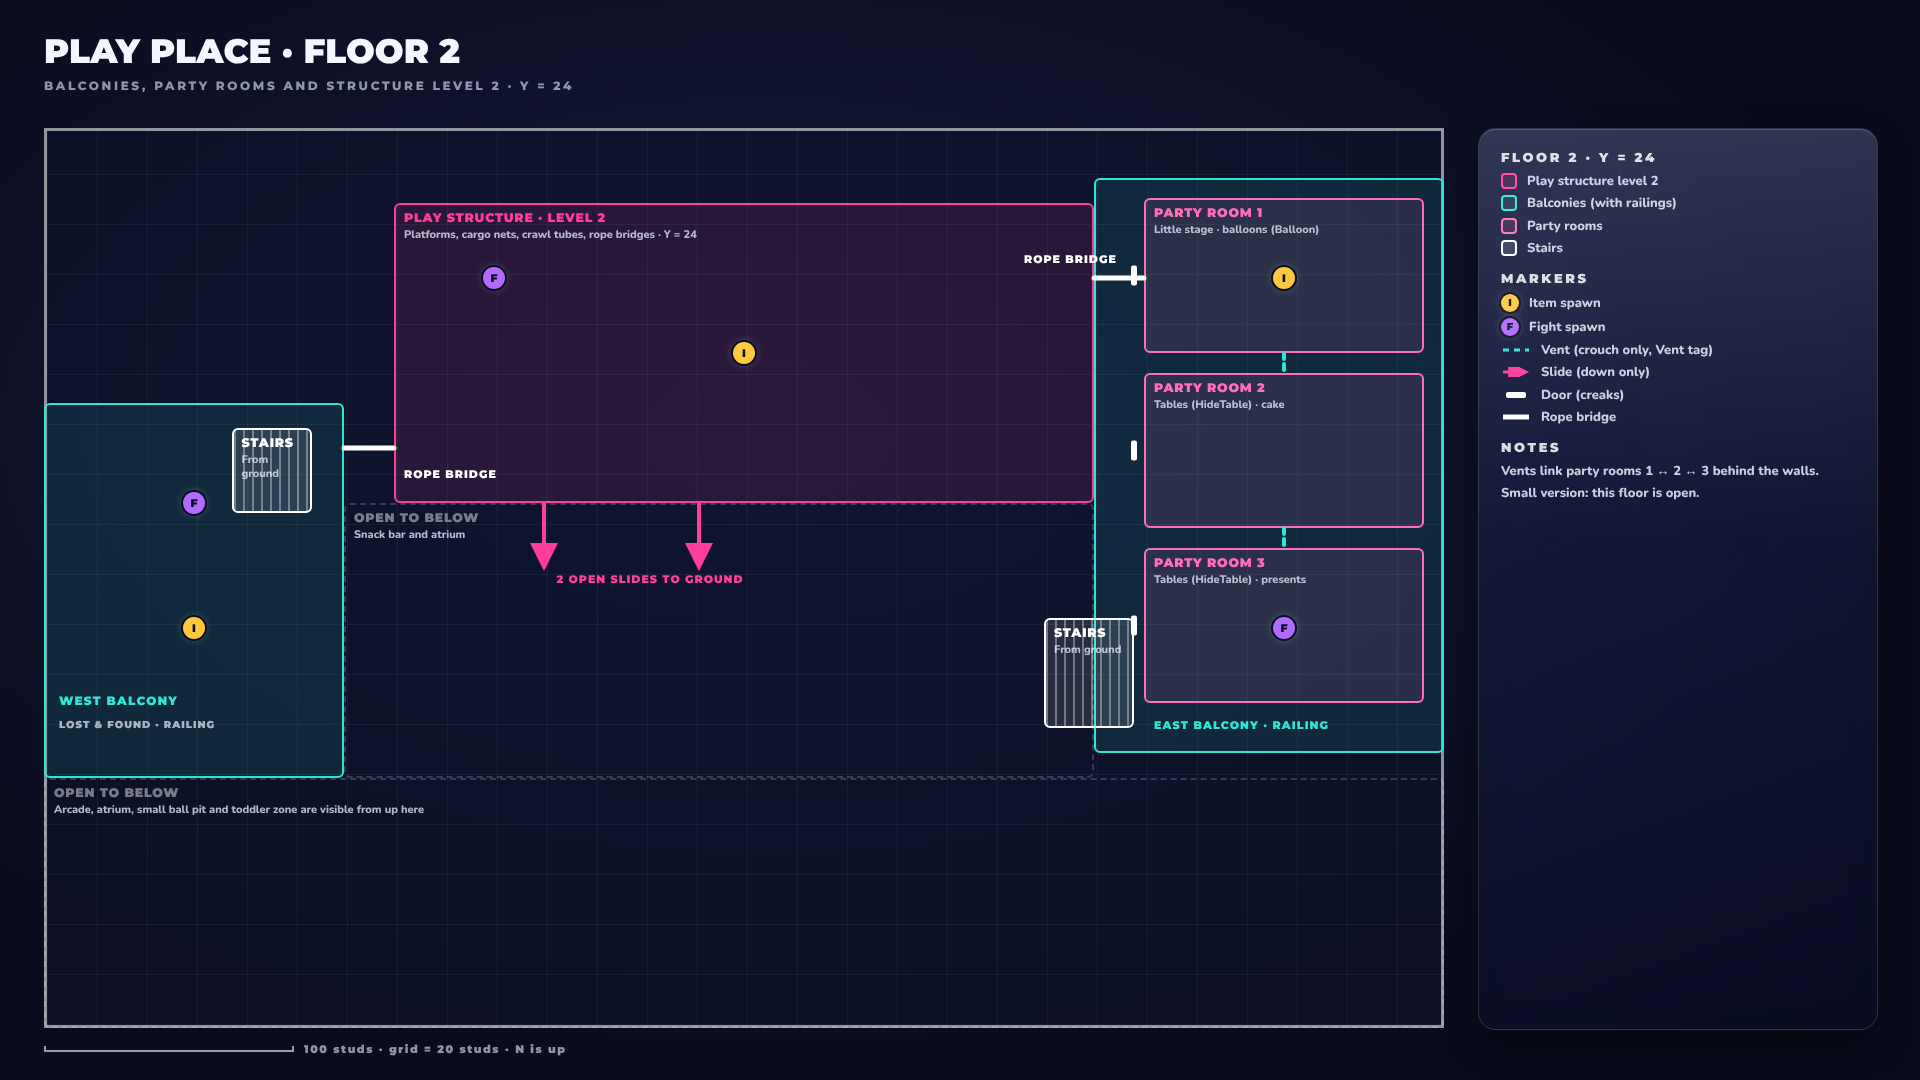
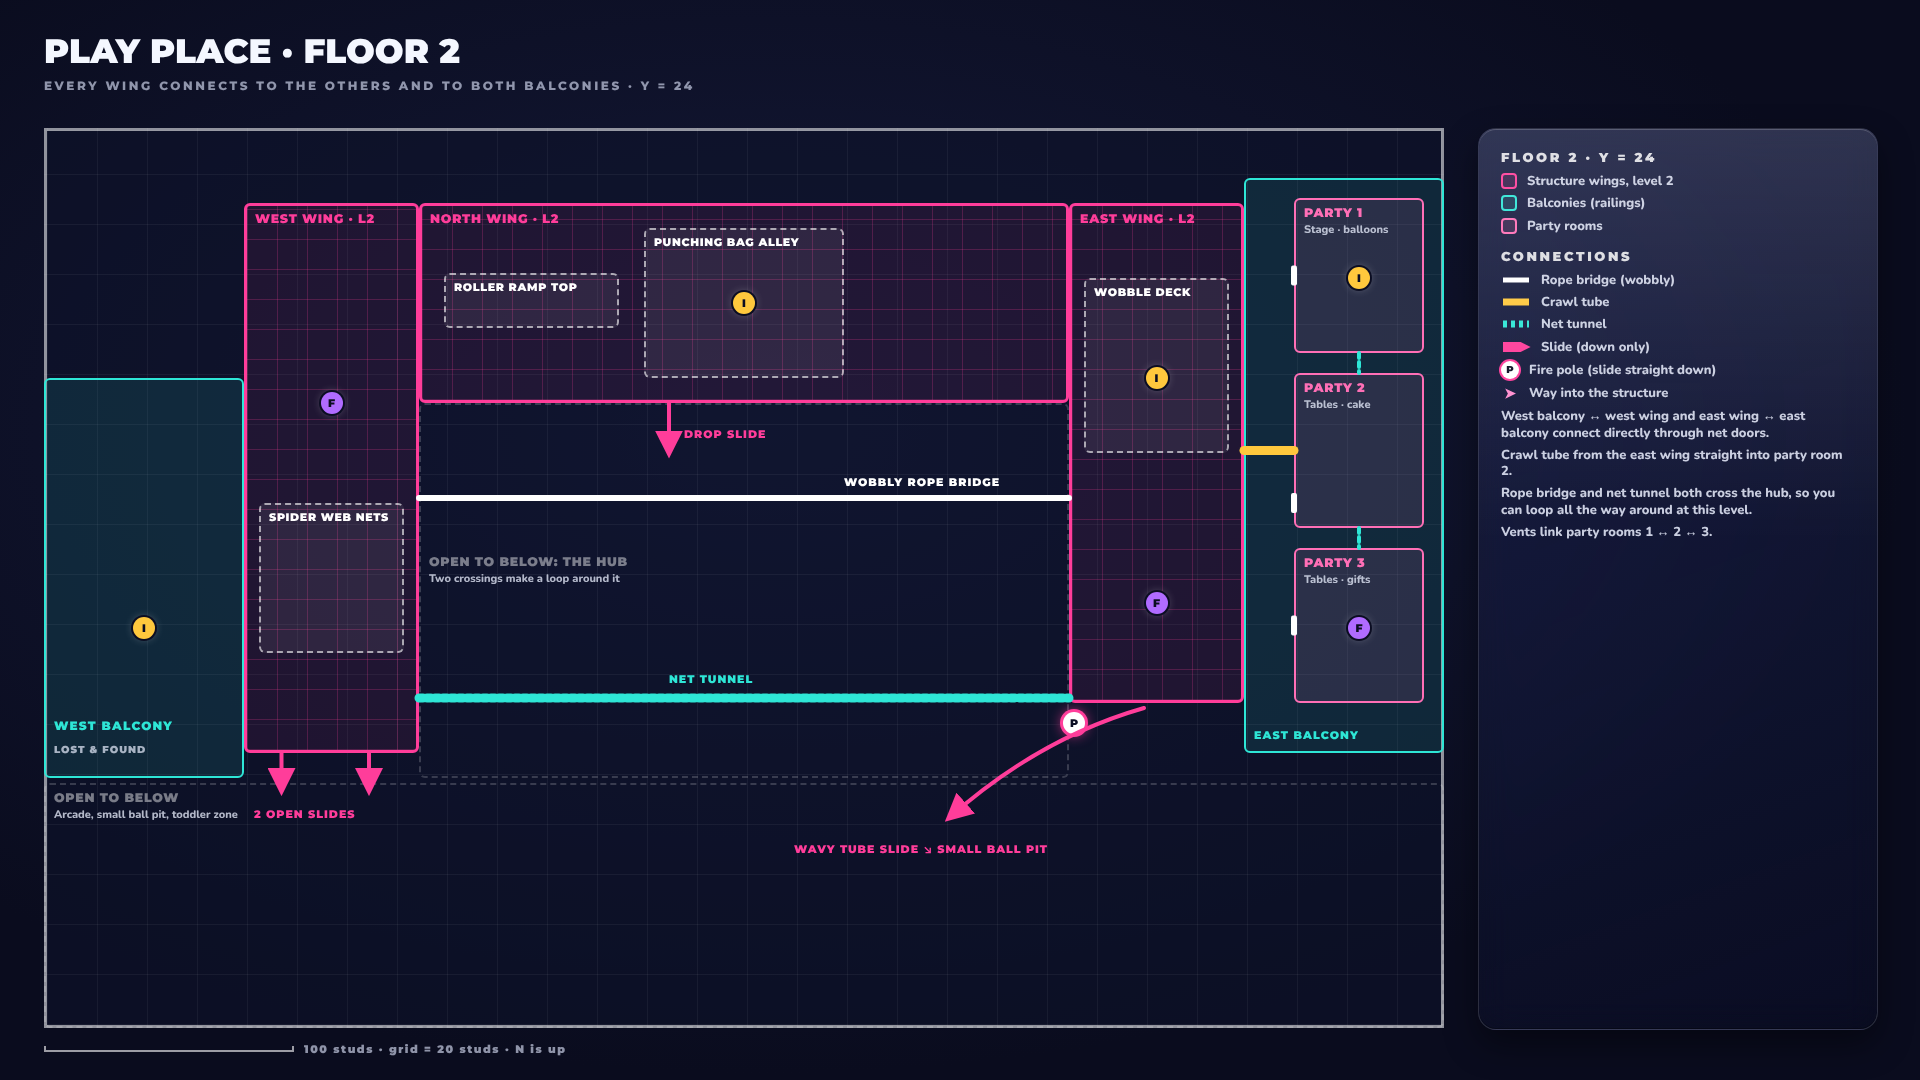
Redesign play place as a connected Goofy Gorillas style structure
Horseshoe of three netted-cube wings plus a west tower around the info
desk hub, linked by a rope bridge and net tunnel over the hub, crawl tubes
and net doors; six slides and two fire poles; named play areas inside the
structure. Floor plans and spec updated to match.

Claude-Session: https://claude.ai/code/session_015tY4PgXudsWvih9vAot5cc

diff --git a/docs/maps/play-place.md b/docs/maps/play-place.md
@@ -1,8 +1,11 @@
-# Map spec: Indoor play place
+# Map spec: Indoor play place (v2)
 
-Draft layout for the main map. The pictures show it; this file has the exact
-numbers so Claude Code can build a greybox version (simple blocks with the
-right tags) that the owner then decorates in Studio.
+Layout for the main map, modelled on how Goofy Gorillas' play place feels:
+one **huge, connected play structure** made of netted cubes, with several
+towers joined by bridges, net tunnels and crawl tubes, lots of slides, ball
+pits built into its base, and openings on every side. The pictures show it;
+this file has the exact numbers so Claude Code can build a greybox version
+(simple blocks with the right tags) that the owner then decorates in Studio.
 
 All numbers are **(suggested)** unless the design doc says otherwise. Change
 them freely, but keep this file and the pictures in sync.
@@ -19,92 +22,128 @@ them freely, but keep this file and the pictures in sync.
   (0, 0, 0)**.
 - **X** runs west to east (0 to 560). **Z** runs north to south (0 to 360).
   In the pictures, north is up.
-- **Y** is height: ground floor 0, floor 2 at 24, floor 3 at 48, ceiling at
-  76.
-- Zones below are written as `x1–x2, z1–z2`.
+- **Y** is height: ground 0, floor 2 at 24, floor 3 at 48, ceiling at 76.
+- Zones are written as `x1–x2, z1–z2`. Points as `(x, z)`.
 - The **office doors** are on the **south wall** (Z = 360) at X 20–60.
-- Big version: everything below. **Small version** (2 to 14 players): the
-  same building with **floor 3 closed off** (netting over the ladders up from
-  floor 2 and a "closed" sign).
+- **Small version** (2 to 14 players): the same building with **floor 3
+  closed off** (netting over the ways up from floor 2 and a "closed" sign).
+
+## The play structure
+
+A **horseshoe of three wings** wrapped around the **hub** (the open court
+with the info desk). Every wing is built from **12-stud netted cubes**
+stacked into levels, with padded poles at the corners, cargo nets on the
+hub-facing sides, ladders and ramps inside, and net doors on every side.
+
+| Wing | Area | Levels | Inside |
+|---|---|---|---|
+| West wing | x 80–150, z 30–160 at ground; x 80–150, z 30–250 at level 2 (level 2 extends over the snack bar) | 3 (level 3 is the west tower, below) | Ground: **net maze** (x 86–144, z 70–140). Level 2: **spider web nets** (x 86–144, z 150–210). |
+| North wing | x 150–410, z 30–110 | 3 (tallest) | Ground: **big ball pit** (x 298–398, z 38–104) and the **roller ramp** up to level 2 (x 160–230, z 58–80). Level 2: **punching bag alley** (x 240–320, z 40–100). Level 3: **tube maze and lookout windows** (x 170–390, z 30–100). |
+| East wing | x 410–480, z 30–230 | 2 | Ground: **crawl tube tunnels** (x 416–474, z 120–190). Level 2: **wobble deck** (x 416–474, z 60–130). |
+| West tower | x 80–150, z 30–100 at level 3 | top only | **Lookout**, reached from the west wing's level 2. |
+
+**Ways into the structure from the ground** (net doors): (150, 60),
+(150, 135), (80, 120), (190, 110), (270, 110), (410, 140), (410, 70),
+(445, 230), (480, 100).
+
+### Slides and poles (all one way, down)
+
+| # | Slide | From | To |
+|---|---|---|---|
+| 1 | **Giant spiral tube slide** | North wing level 3, entrance x 350–380, z 42–72 | Big ball pit (ground) |
+| 2 | **Wavy tube slide** | East wing level 2 at (440, 232) | Small ball pit (ground), landing at (362, 276) |
+| 3–4 | **Two open slides** | West wing level 2, south edge at (95, 250) and (130, 250) | Ground at (95, 263) and (130, 263), between the snack bar and the arcade |
+| 5 | **Drop slide** (steep) | North wing level 2, south edge at (250, 110) | The hub at (250, 130) |
+| 6 | **Tiny corkscrew slide** | A low platform inside the toddler zone | Toddler zone floor |
+
+| Fire pole | From | To |
+|---|---|---|
+| North pole | North wing level 3 at (210, 92) | The hub at (210, 114), straight through level 2 |
+| East pole | East wing level 2 at (412, 238) | Ground at (412, 238) |
+
+### Crossings and links
+
+| Level | Link | Between |
+|---|---|---|
+| 2 | **Wobbly rope bridge** over the hub | West wing (150, 148) ↔ east wing (410, 148) |
+| 2 | **Net tunnel** over the hub | West wing (150, 228) ↔ east wing (410, 228) |
+| 2 | **Crawl tube** | East wing (480, 129) → straight into party room 2 (500, 129) |
+| 2 | Net doors | West balcony ↔ west wing along x = 80; east wing ↔ east balcony along x = 480 |
+| 3 | **Crawl tube** | West tower (150, 60) ↔ north wing level 3 (170, 60) |
+
+With both hub crossings you can **loop all the way around the hub at level
+2**, and every wing connects to the others and to both balconies.
 
 ## Ground floor (Y = 0)
 
 | Zone | Area | Notes | Tags |
 |---|---|---|---|
-| Maintenance hallway | x 5–555, z 5–23 | Staff only, narrow, pipes and fuse boxes. Door to the storage room at (500, 23). | `Door` |
-| Kitchen | x 5–55, z 140–250 | Staff only, behind the snack bar. Door to the snack bar on its east wall at (55, 200). Vent to the maintenance hallway (below). | `Door`, `Vent` |
-| Snack bar counter | x 58–66, z 165–250 | Counter you can hide behind. | |
-| Snack bar seating | x 70–220, z 165–250 | About 8 tables with tablecloths, chairs flipped up on top. | `HideTable` |
-| Play structure, level 1 | x 140–420, z 30–150 | Ground level of the climbing structure: cargo nets up, crawl tubes. | `Climbable`, `CrawlTube` |
-| Big ball pit | x 302–406, z 46–134 | Inside the structure's ground level, floor sunk 4 studs. The giant spiral slide lands here. | `BallPit`, `BallPitBalls` |
-| Storage room | x 440–555, z 30–120 | Staff only: boxes, spare balls, mop buckets. Door to the hall at (490, 120). | `Door` |
-| Entrance hall | x 20–60, z 270–358 | From the office doors: cubbies, shoe racks, sign-in desk. Opens into the hall at (40, 270). | `EntranceSpawn` |
-| Arcade | x 70–235, z 270–350 | Rows of arcade machines. | `ArcadeMachine` |
-| Prize counter | x 238–272, z 270–350 | Glass cases of plushies and toys. | |
-| Small ball pit | x 290–380, z 285–345 | Near the entrance. | `BallPit`, `BallPitBalls` |
-| Toddler zone | x 410–555, z 250–350 | Soft play with low padded walls (3 studs) and about 20 foam blocks. | `FoamBlock` |
-| West stairs | x 75–107, z 120–154 | Up to the west balcony. | |
-| East stairs | x 400–436, z 196–240 | Up to the east balcony. | |
-| Atrium | the open middle | Open floor around the info desk. | |
-| Info desk | circle, center (280, 205), radius 12 | Round staff desk in the middle. Seekers wait here blind. | `SeekerStart` |
+| Maintenance hallway | x 5–555, z 5–23 | Staff only, runs behind everything. Door to storage at (500, 23). | `Door` |
+| Kitchen | x 5–55, z 140–250 | Staff only. Door to the snack bar at (55, 205). | `Door` |
+| West stairs | x 15–55, z 100–134 | Up to the west balcony. | |
+| Snack bar counter | x 58–66, z 165–250 | Hide behind it. | |
+| Snack bar seating | x 68–150, z 165–250 | Tables with tablecloths, chairs flipped up, **under the west wing's level 2**. | `HideTable` |
+| The hub | x 150–410, z 110–260 | Open court in the middle; the rope bridge and net tunnel pass overhead. | |
+| Info desk | circle, center (280, 180), radius 12 | Seekers wait here blind. | `SeekerStart` |
+| Storage | x 490–555, z 30–120 | Staff only. Door to the floor at (520, 120). | `Door` |
+| East stairs | x 495–535, z 190–235 | Up to the east balcony. | |
+| Entrance hall | x 20–60, z 270–358 | Cubbies, shoe racks, sign-in desk. | `EntranceSpawn` |
+| Arcade | x 70–235, z 270–350 | Rows of machines. | `ArcadeMachine` |
+| Prize counter | x 238–272, z 270–350 | Glass cases of plushies. | |
+| Small ball pit | x 290–390, z 275–345 | The wavy tube slide lands here. | `BallPit`, `BallPitBalls` |
+| Toddler zone | x 410–555, z 260–350 | Soft play, about 20 foam blocks, tiny corkscrew slide. | `FoamBlock` |
+
+The big ball pit (in the north wing) has its floor sunk 4 studs. Tags:
+`BallPit`, `BallPitBalls`.
+
+**Vents** (`Vent`, crouch only): kitchen (30, 140) ↔ maintenance hallway
+(30, 23); storage (540, 120) ↔ toddler zone (540, 260).
 
 **Spawn points**
 
 | Tag | Positions (x, z) |
 |---|---|
-| `EntranceSpawn` | Around (40, 340) in the entrance hall |
-| `SeekerSpawn` | (250, 172), (310, 172), (250, 246), (310, 246) |
-| `ItemSpawn` | (150, 210), (360, 240), (480, 140), (200, 300) |
-| `FightSpawn` | (110, 230), (460, 230), (340, 320), (220, 160) |
+| `EntranceSpawn` | Around (40, 340) |
+| `SeekerSpawn` | (240, 150), (320, 150), (240, 215), (320, 215) |
+| `ItemSpawn` | (110, 205), (285, 245), (455, 250), (200, 300), (520, 160) |
+| `FightSpawn` | (115, 50), (380, 150), (340, 320), (500, 300) |
 
-**Vents (crouch only, `Vent`)**
-- Kitchen north wall (30, 140) to the maintenance hallway (30, 23), inside
-  the west wall.
-- Storage room (500, 120) to the toddler zone (500, 250), inside the east
-  side.
-
-**Slides:** two open slides from the south edge of structure level 2 land on
-the ground at about (200, 165) and (262, 165).
-
-**Cleaning robot** (`RobotPath` points): (240, 160) → (330, 160) →
-(400, 260) → (380, 350) → (280, 270) → (200, 260) → back to start.
+**Cleaning robot** (`RobotPath`): loops around the hub and between both
+ball pits: (220, 250) → (400, 250) → (400, 270) → (290, 270) → (220, 250).
 
 ## Floor 2 (Y = 24)
 
 | Zone | Area | Notes | Tags |
 |---|---|---|---|
-| Play structure, level 2 | x 140–420, z 30–150 | Platforms, cargo nets, crawl tubes. | `Climbable`, `CrawlTube` |
-| West balcony | x 0–120, z 110–260 | Overlooks the snack bar. Lost and found. Railing on the open sides. | |
-| East balcony | x 420–560, z 20–250 | Walkway at x 420–440 in front of the party rooms. Railing on the open sides. | |
-| Party room 1 | x 440–552, z 28–90 | Little stage, balloons. Door at (440, 59). | `Door`, `Balloon` |
-| Party room 2 | x 440–552, z 98–160 | Tables with tablecloths, cake. Door at (440, 129). | `Door`, `HideTable` |
-| Party room 3 | x 440–552, z 168–230 | Tables with tablecloths, presents. Door at (440, 199). | `Door`, `HideTable` |
-| Open to below | everything else | The atrium, snack bar, arcade, small ball pit and toddler zone are open up to the ceiling. | |
+| West balcony | x 0–80, z 100–260 | Over the kitchen. Lost and found. Railing on the open sides. | |
+| West wing, level 2 | x 80–150, z 30–250 | Spider web nets. Two open slides from its south edge. | `Climbable` |
+| North wing, level 2 | x 150–410, z 30–110 | Punching bag alley, roller ramp top, drop slide. | `Climbable` |
+| East wing, level 2 | x 410–480, z 30–230 | Wobble deck, wavy tube slide, east pole. | `Climbable` |
+| East balcony | x 480–560, z 20–250 | Walkway at x 480–500 in front of the party rooms. | |
+| Party room 1 | x 500–552, z 28–90 | Stage, balloons. Door at (500, 59). | `Door`, `Balloon` |
+| Party room 2 | x 500–552, z 98–160 | Tables, cake. Door at (500, 150); the crawl tube from the east wing enters at (500, 129). | `Door`, `HideTable` |
+| Party room 3 | x 500–552, z 168–230 | Tables, gifts. Door at (500, 199). | `Door`, `HideTable` |
 
-- **Rope bridges:** west balcony to the structure at z 128 (x 120–140);
-  structure to party room 1's door at z 60 (x 420–440).
-- **Vents:** party room 1 ↔ 2 at (496, 90–98), and party room 2 ↔ 3 at
-  (496, 160–168).
-- **Slides:** the two open slides start here at (200, 150) and (262, 150).
-- `ItemSpawn`: (60, 200), (496, 60), (280, 90). `FightSpawn`: (496, 200),
-  (180, 60), (60, 150).
+- **Vents:** party rooms 1 ↔ 2 at (526, 90–98) and 2 ↔ 3 at (526, 160–168).
+- `ItemSpawn`: (40, 200), (280, 70), (445, 100), (526, 60).
+- `FightSpawn`: (115, 110), (445, 190), (526, 200).
 
 ## Floor 3 (Y = 48), big version only
 
 | Zone | Area | Notes | Tags |
 |---|---|---|---|
-| Play structure, level 3 | x 180–380, z 40–140 | The top: tube maze, net walkway, lookout windows. Reached only by nets and ladders from level 2. | `Climbable`, `CrawlTube` |
-| Spiral slide entrance | x 350–380, z 50–80 | The giant tube slide spirals down through the structure into the big ball pit. | `Slide` |
-| Roof of the structure | x 140–420, z 20–160, above Y 70 | Blocked. | `NoGo` |
+| West tower, level 3 | x 80–150, z 30–100 | Lookout. | `Climbable` |
+| North wing, level 3 | x 170–390, z 30–100 | Tube maze, lookout windows, the north pole down. | `Climbable`, `CrawlTube` |
+| Spiral slide entrance | x 350–380, z 42–72 | Down into the big ball pit. | `Slide` |
+| Roofs | x 76–394, z 22–108, above Y 70 | Blocked. | `NoGo` |
 
-- `ItemSpawn`: (230, 90). `FightSpawn`: (300, 110).
+- `ItemSpawn`: (115, 75). `FightSpawn`: (260, 75).
 
 ## Everywhere
 
-- **Walls** 76 studs tall. **South wall windows** look out on a night
-  parking lot.
-- **Lights** are tagged `DimmableLight` in every area, for the lighting
-  variation.
+- **Walls** 76 studs tall. **South wall windows** show a night parking lot.
+- **Lights** tagged `DimmableLight` in every area, for the lighting
+  variation. Hanging warehouse lamps and roof trusses above the structure.
 - Closed-for-the-night details: chairs flipped up on tables, mop buckets and
   wet floor signs (decoration only), a lost and found.
 - Each ball pit has its own color theme.
@@ -113,8 +152,10 @@ the ground at about (200, 165) and (262, 165).
 
 1. Write a script the owner pastes into Studio's **command bar** (or a
    one-off plugin) that builds the map from this file as simple, anchored
-   parts: floors, walls, the structure's levels, ramps for stairs and slides,
-   and invisible zone parts for ball pits, the info desk and spawns.
+   parts: floors, walls, the structure wings as stacked 12-stud cubes with
+   net walls, ramps for stairs and slides (slide paths can be simple
+   ramps or curved segments for now), bridges, tubes, and invisible zone
+   parts for ball pits, the info desk and spawns.
 2. Put everything in one model, `PlayPlace_Big`, inside `ServerStorage.Maps`,
    with every part tagged as listed above. Then make `PlayPlace_Small` by
    copying it and closing off floor 3.

diff --git a/docs/GAME_DESIGN.md b/docs/GAME_DESIGN.md
@@ -354,9 +354,17 @@ of each floor in `docs/maps/`).
   seconds** at sprint speed.
 - **Small version (2 to 14 players):** the same building with only the
   **ground floor and 2nd floor** open; the 3rd floor is closed off.
-- **Getting between floors:** stairs (fast but loud footsteps), climbing
-  nets and ladders inside the play structure, and slides (down only). No
-  elevator.
+- **The play structure is the heart of the map** (like Goofy Gorillas): a
+  huge horseshoe of netted cubes in three wings (west, north, east) around
+  the info desk hub, plus a west tower. Wings link to each other and to both
+  balconies through a wobbly rope bridge and a net tunnel over the hub,
+  crawl tubes and net doors, so it's big but connected in many ways. Named
+  play areas inside: net maze, roller ramp, punching bag alley, spider web
+  nets, wobble deck, tube maze and lookouts.
+- **Getting between floors:** stairs (fast but loud footsteps), cargo nets,
+  ladders and the roller ramp inside the structure, **6 slides** (giant
+  spiral tube, wavy tube, two open slides, a drop slide, a tiny toddler
+  corkscrew) and **2 fire poles** (down only). No elevator.
 - **Ball colors:** each ball pit has **its own color theme** (for example
   one classic red/blue/yellow pit, one neon pit) **(suggested themes)**.
 - **Closed-for-the-night details:** chairs flipped up on the snack bar
